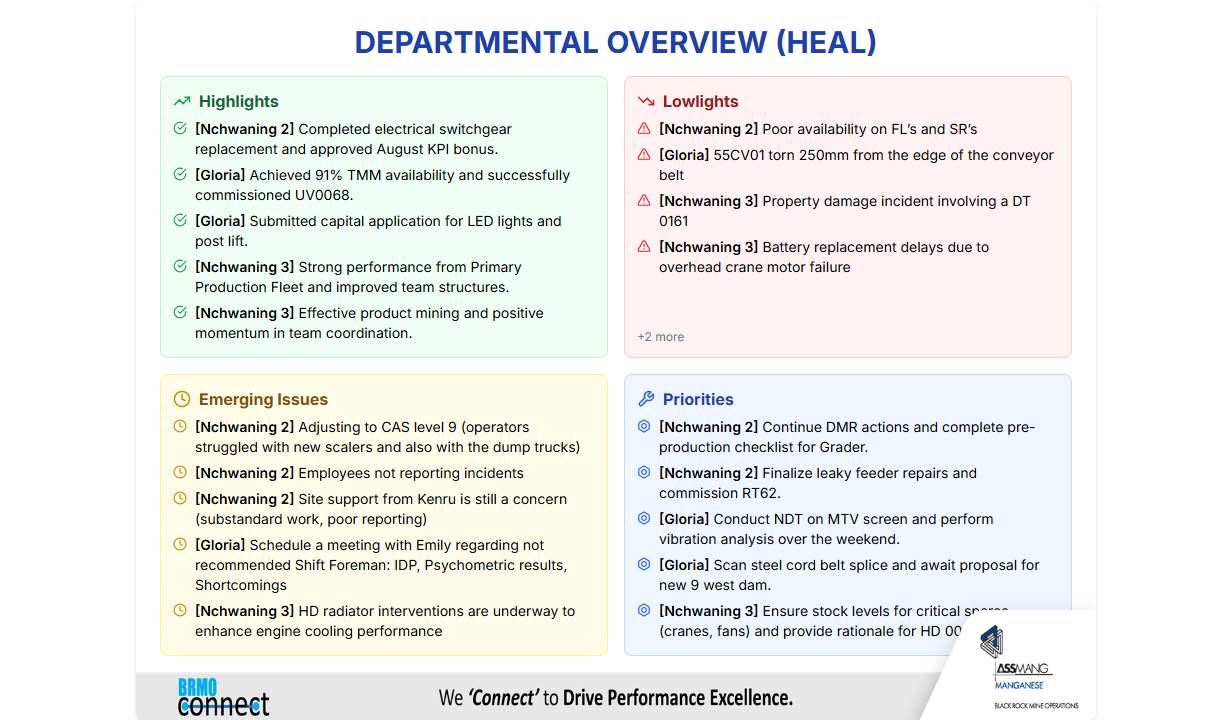
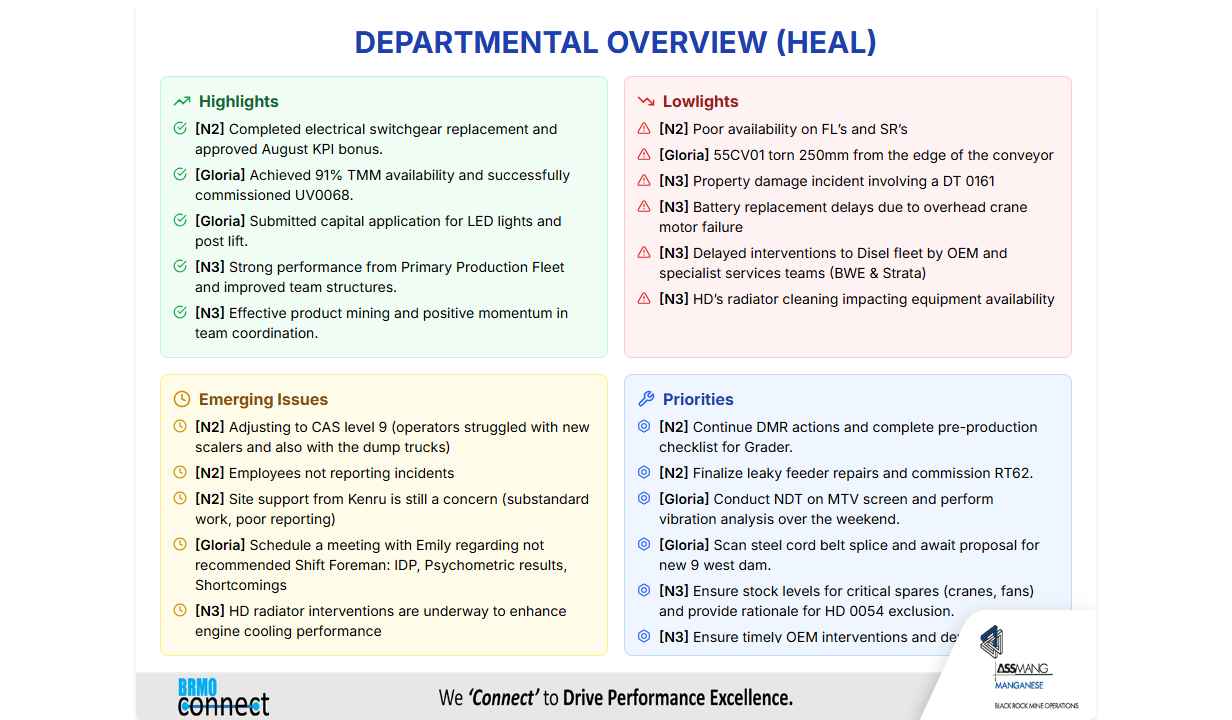
refactor: Abbreviate site names on HEAL slide

diff --git a/weekly-report-generator/src/data/reportData.ts b/weekly-report-generator/src/data/reportData.ts
@@ -80,35 +80,35 @@ export const reportData: ReportData = {
   footerSrc: '/images/Footer.png',
   heal: {
     highlights: [
-      { site: 'Nchwaning 2', text: 'Completed electrical switchgear replacement and approved August KPI bonus.' },
+      { site: 'N2', text: 'Completed electrical switchgear replacement and approved August KPI bonus.' },
       { site: 'Gloria', text: 'Achieved 91% TMM availability and successfully commissioned UV0068.' },
       { site: 'Gloria', text: 'Submitted capital application for LED lights and post lift.' },
-      { site: 'Nchwaning 3', text: 'Strong performance from Primary Production Fleet and improved team structures.' },
-      { site: 'Nchwaning 3', text: 'Effective product mining and positive momentum in team coordination.' },
-      { site: 'Nchwaning 3', text: 'Completed HD 0054 investigation and filled key Electrical Foreman position.' },
+      { site: 'N3', text: 'Strong performance from Primary Production Fleet and improved team structures.' },
+      { site: 'N3', text: 'Effective product mining and positive momentum in team coordination.' },
+      { site: 'N3', text: 'Completed HD 0054 investigation and filled key Electrical Foreman position.' },
     ],
     lowlights: [
-      { site: 'Nchwaning 2', text: 'Poor availability on FL’s and SR’s' },
-      { site: 'Gloria', text: '55CV01 torn 250mm from the edge of the conveyor belt' },
-      { site: 'Nchwaning 3', text: 'Property damage incident involving a DT 0161' },
-      { site: 'Nchwaning 3', text: 'Battery replacement delays due to overhead crane motor failure' },
-      { site: 'Nchwaning 3', text: 'Delayed interventions to Disel fleet by OEM and specialist services teams (BWE & Strata)' },
-      { site: 'Nchwaning 3', text: 'HD’s radiator cleaning impacting equipment availability' },
+      { site: 'N2', text: 'Poor availability on FL’s and SR’s' },
+      { site: 'Gloria', text: '55CV01 torn 250mm from the edge of the conveyor' },
+      { site: 'N3', text: 'Property damage incident involving a DT 0161' },
+      { site: 'N3', text: 'Battery replacement delays due to overhead crane motor failure' },
+      { site: 'N3', text: 'Delayed interventions to Diesel fleet by OEM and specialist services teams (BWE & Strata)' },
+      { site: 'N3', text: 'HD’s radiator cleaning impacting equipment availability' },
     ],
     emergingIssues: [
-      { site: 'Nchwaning 2', text: 'Adjusting to CAS level 9 (operators struggled with new scalers and also with the dump trucks)' },
-      { site: 'Nchwaning 2', text: 'Employees not reporting incidents' },
-      { site: 'Nchwaning 2', text: 'Site support from Kenru is still a concern (substandard work, poor reporting)' },
+      { site: 'N2', text: 'Adjusting to CAS level 9 (operators struggled with new scalers and also with the dump trucks)' },
+      { site: 'N2', text: 'Employees not reporting incidents' },
+      { site: 'N2', text: 'Site support from Kenru is still a concern (substandard work, poor reporting)' },
       { site: 'Gloria', text: 'Schedule a meeting with Emily regarding not recommended Shift Foreman: IDP, Psychometric results, Shortcomings' },
-      { site: 'Nchwaning 3', text: 'HD radiator interventions are underway to enhance engine cooling performance' },
+      { site: 'N3', text: 'HD radiator interventions are underway to enhance engine cooling performance' },
     ],
     priorities: [
-      { site: 'Nchwaning 2', text: 'Continue DMR actions and complete pre-production checklist for Grader.' },
-      { site: 'Nchwaning 2', text: 'Finalize leaky feeder repairs and commission RT62.' },
+      { site: 'N2', text: 'Continue DMR actions and complete pre-production checklist for Grader.' },
+      { site: 'N2', text: 'Finalize leaky feeder repairs and commission RT62.' },
       { site: 'Gloria', text: 'Conduct NDT on MTV screen and perform vibration analysis over the weekend.' },
       { site: 'Gloria', text: 'Scan steel cord belt splice and await proposal for new 9 west dam.' },
-      { site: 'Nchwaning 3', text: 'Ensure stock levels for critical spares (cranes, fans) and provide rationale for HD 0054 exclusion.' },
-      { site: 'Nchwaning 3', text: 'Ensure timely OEM interventions and develop a proactive maintenance plan for HD radiators.' },
+      { site: 'N3', text: 'Ensure stock levels for critical spares (cranes, fans) and provide rationale for HD 0054 exclusion.' },
+      { site: 'N3', text: 'Ensure timely OEM interventions and develop a proactive maintenance plan for HD radiators.' },
     ],
   },
   shaftsAndWinders: {

diff --git a/capture-slides.js b/capture-slides.js
@@ -9,7 +9,7 @@ if (!fs.existsSync(outputDir)) {
 (async () => {
   const browser = await puppeteer.launch({ headless: true });
   const page = await browser.newPage();
-  await page.goto('http://localhost:5173', { waitUntil: 'networkidle0' });
+  await page.goto('http://localhost:5174', { waitUntil: 'networkidle0' });
   await page.setViewport({ width: 1920, height: 1080 });
 
   await page.waitForSelector('#root:not(:empty)');

diff --git a/weekly-report-generator/src/components/slides/HealSlide.tsx b/weekly-report-generator/src/components/slides/HealSlide.tsx
@@ -23,7 +23,7 @@ const slideStyle: React.CSSProperties = {
 const MAX_CHARS_PER_ITEM = 110;
 const LIMITS = {
   highlights: 8,
-  lowlights: 4,
+  lowlights: 6,
   emerging: 6,
   priorities: 6,
 };
